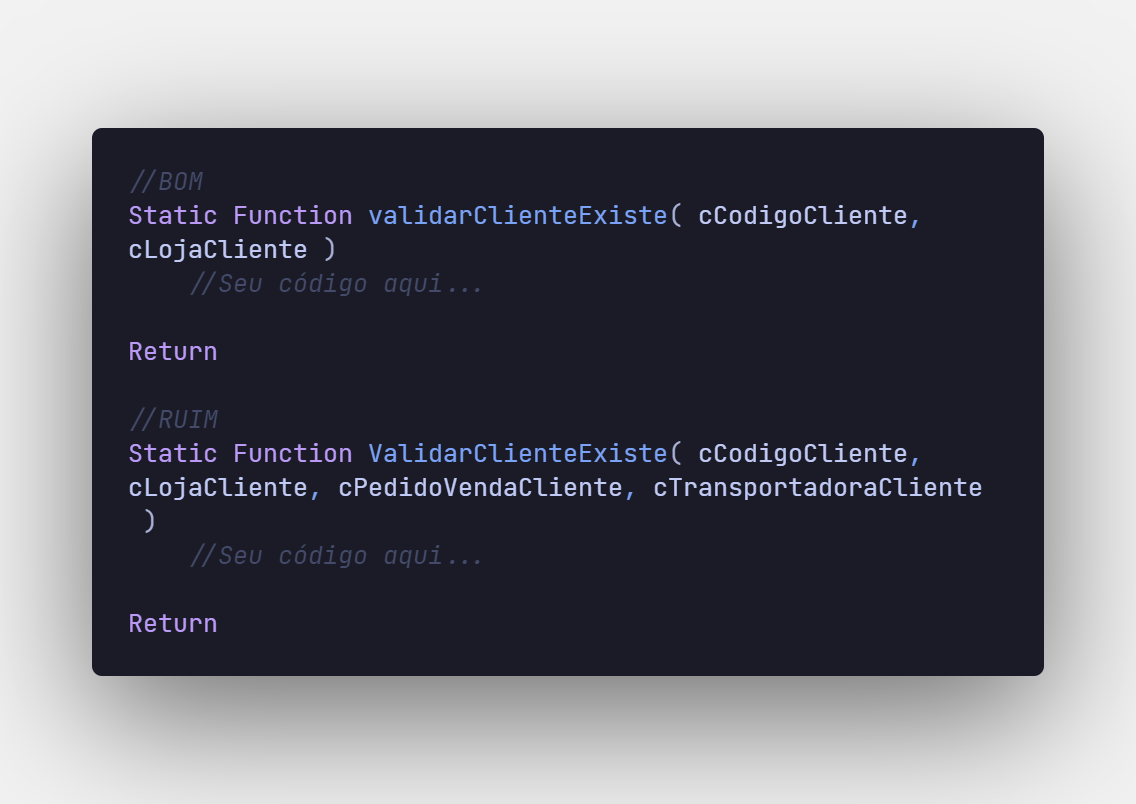
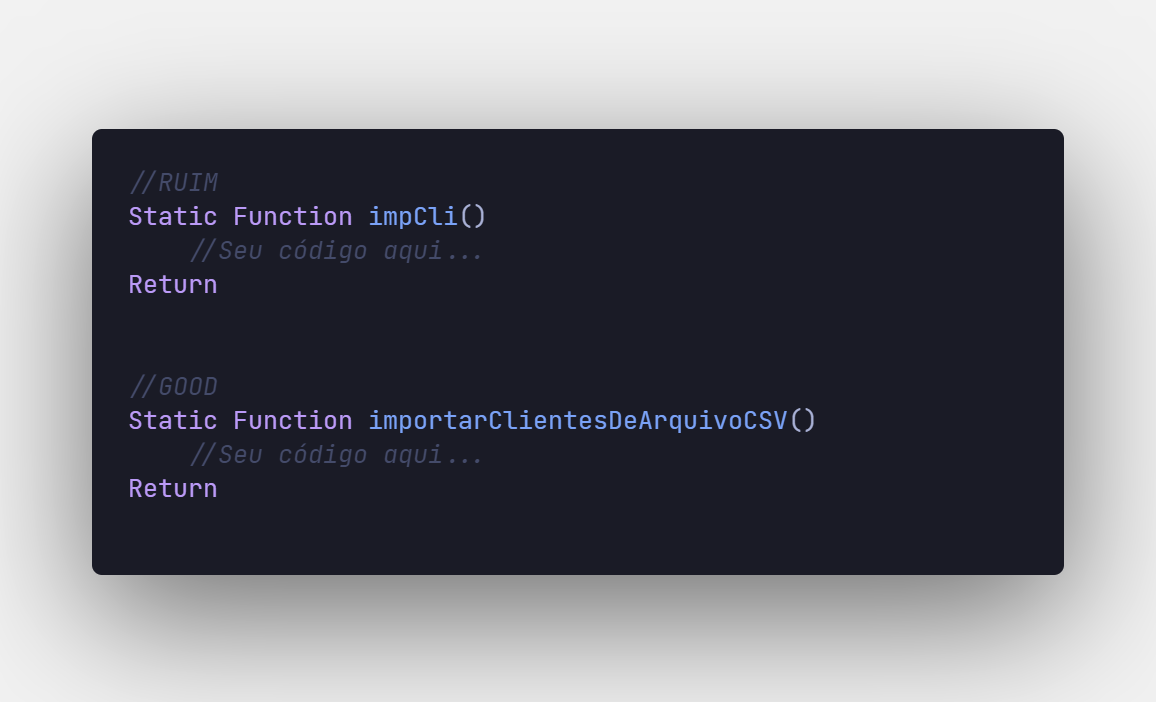
fix: Adjusts in good pratices in named or funcions and variables

diff --git a/clean-code/nomenclaturas/README.md b/clean-code/nomenclaturas/README.md
@@ -6,9 +6,15 @@ Sabemos que o ADVPL possui como característica uma limitação quanto a nomencl
 Nesse caso não devemos olhar para as limitações que a linguagem nos impõe e sim saber abreviar ou escrever de forma inteligente.
 
 ### **Variáveis**
-![](assets/images/nomenclatura_variaveis.png "San Juan Mountains")
+![](assets/images/nomenclatura_variaveis.png)
+
+No exemplo acima aplicamos os dois conceitos:
+    
+1. No primeiro caso utilizamos o pattern de abreviação, mantendo a legibilidade da variável
+    
+2. No segundo caso utilizamos um nome mais extenso, também prezando por uma melhor legibilidade do código
 
 ### **Funções**
-![](assets/images/nomenclatura_funcoes.png "San Juan Mountains")
+![](assets/images/nomenclatura_funcoes.png)
 
 Nota-se que no exemplo acima excedemos o limite máximo, mas concordam que a legibilidade do nome da função e das variáveis ficou bem melhor do que se estivesse abreviado?
